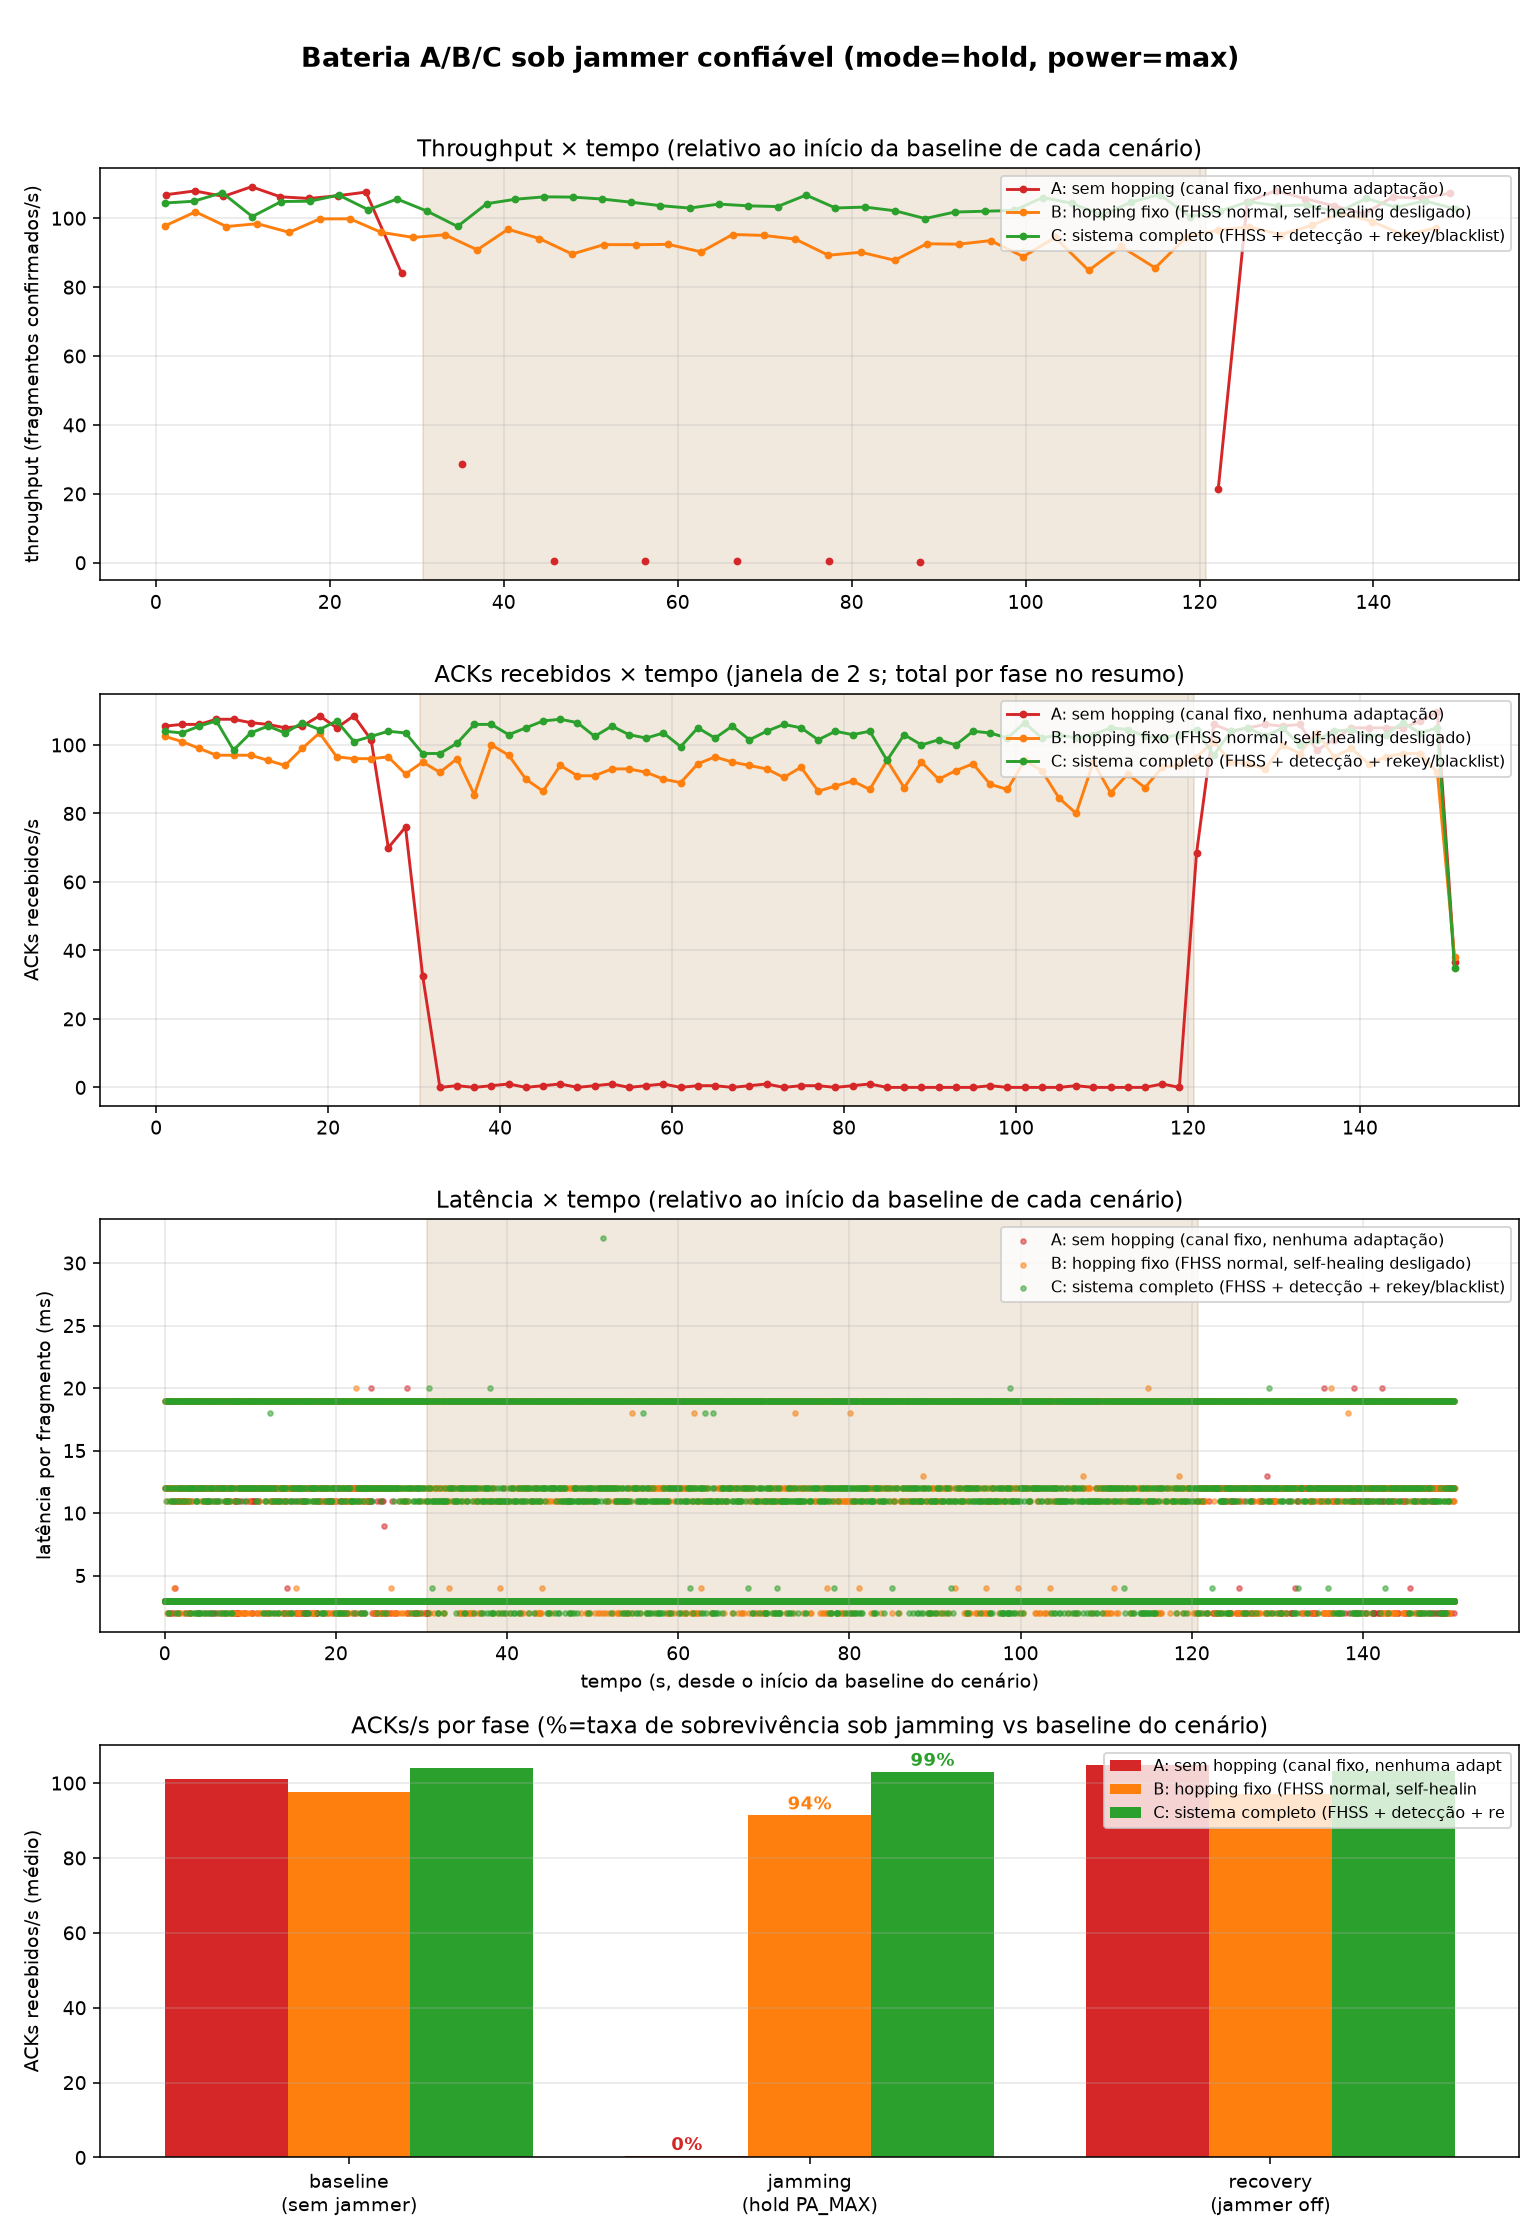
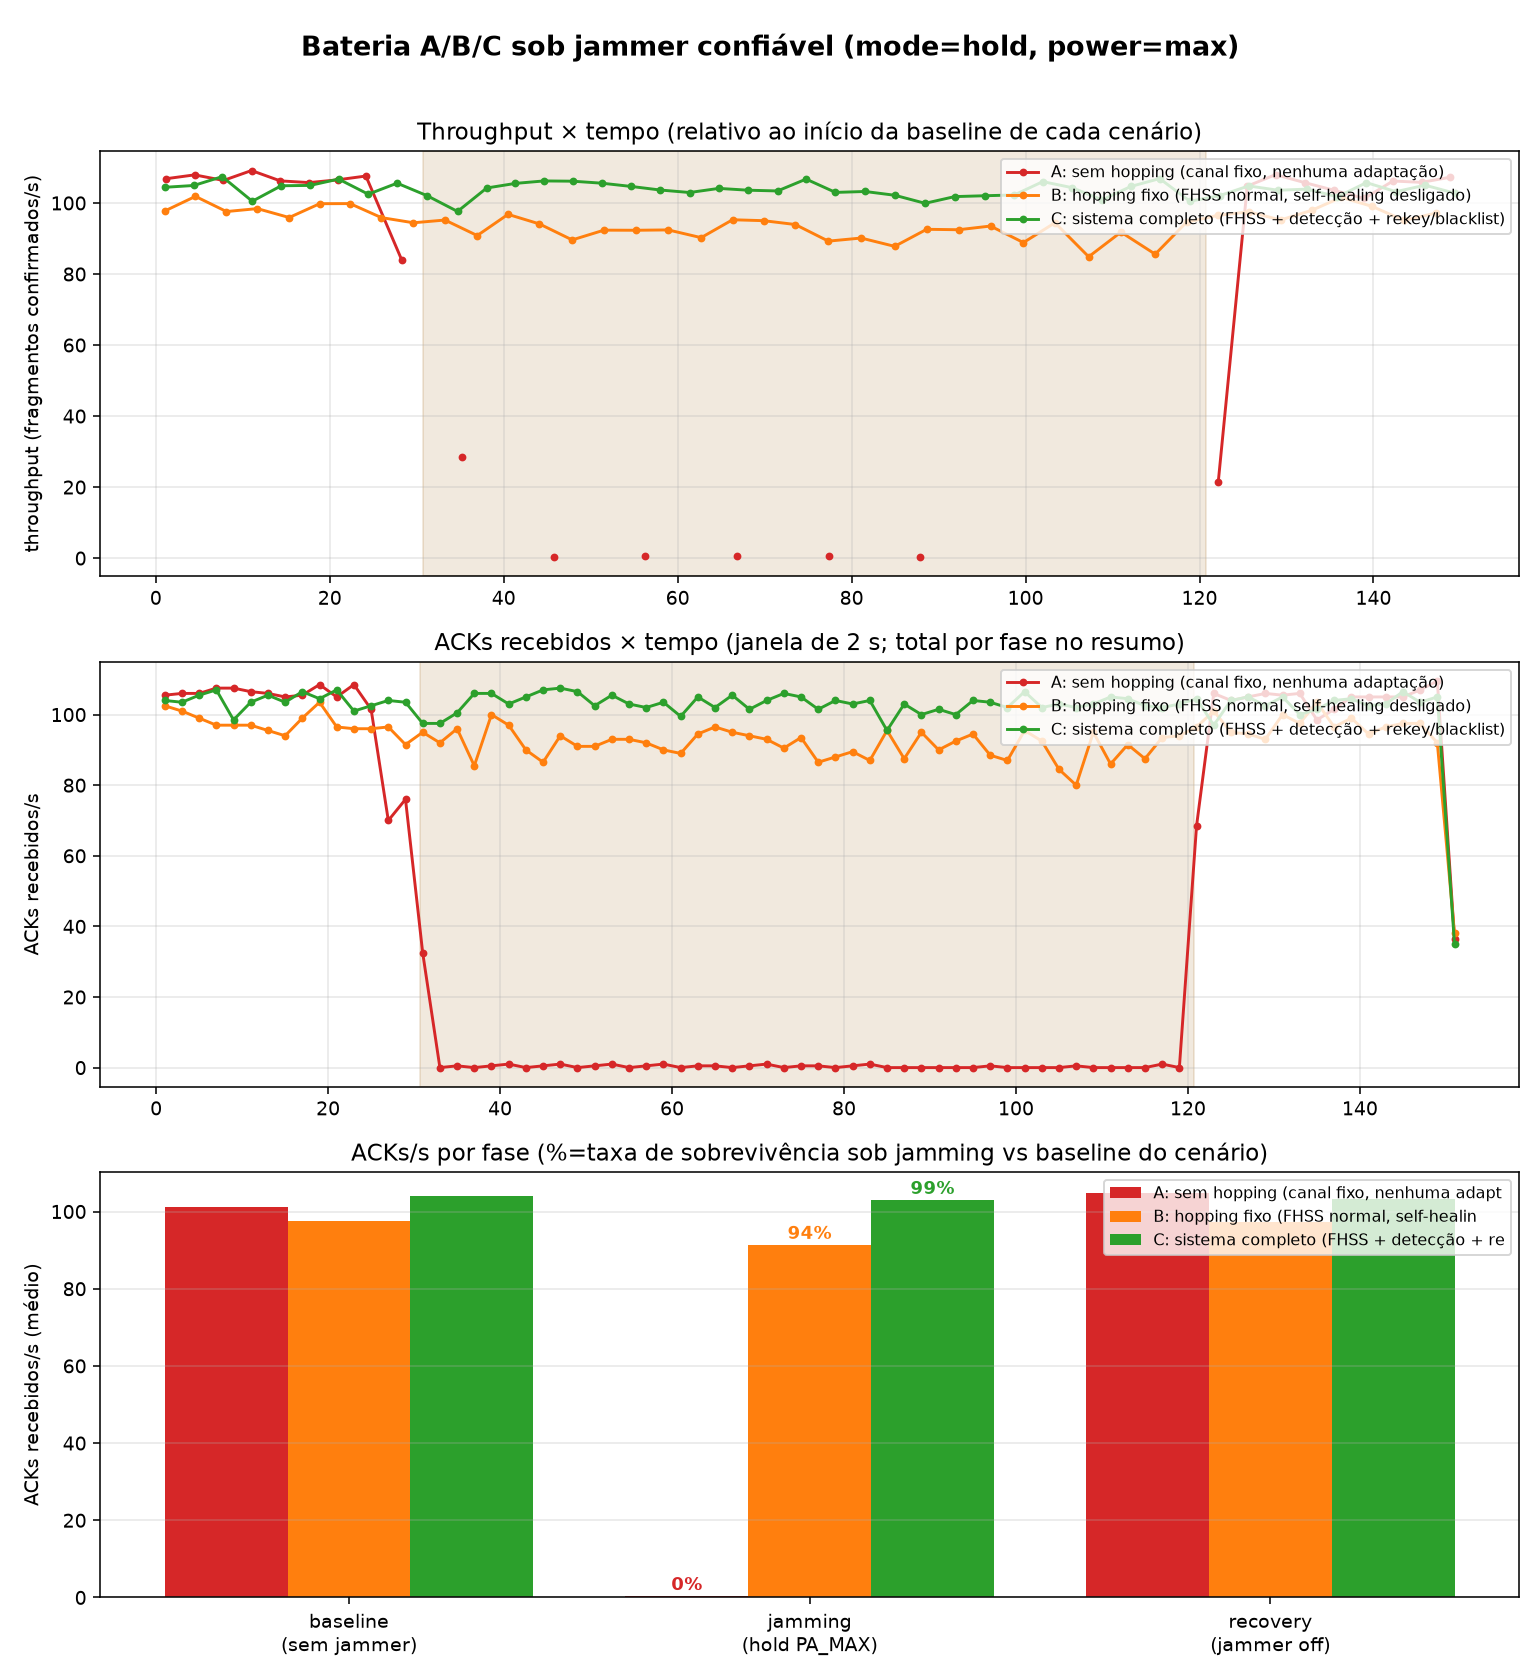
docs/charts: comparativo entre modos de atacante + remove painel de latencia
- comparacao-modos-atacante.png (novo): sistema vs os 4 modos (sweep/targeted/
  adaptive/hold) na firmware final, A/B/C por modo, um radio PA_MAX. Sobrevivencia
  sob jamming: so o hold derruba o canal fixo (A=1%); os outros se diluem
  (A=85-90%); B e C sobrevivem a todos (91-102%). Baterias
  battery-20261021-181950/182429/182908/183346.
- plot_battery.py: remove o painel "Latencia x tempo" (scatter quantizado
  ilegivel). A latencia e estruturalmente constante (~3ms mediana/~19ms p95)
  em todos os cenarios/fases -- fica so no resumo em texto. Baterias de
  docs/charts regeradas com 3 paineis.
- README: adiciona o comparativo de modos e a ressalva sobre latencia.

diff --git a/tools/validation/plot_battery.py b/tools/validation/plot_battery.py
@@ -112,12 +112,13 @@ def main():
     labels = battery.get("scenario_labels", {})
     by_scenario = phases_by_scenario(battery)
 
-    fig, (ax_thr, ax_ack, ax_lat, ax_bar) = plt.subplots(4, 1, figsize=(11, 16), sharex=False)
+    fig, (ax_thr, ax_ack, ax_bar) = plt.subplots(3, 1, figsize=(11, 12), sharex=False)
     # jamming-mitigation-hardening: métricas por fase (baseline/jamming/
     # recovery) por cenário, para o painel de barras e a taxa de sobrevivência.
     per_phase_thr = {}  # scenario -> {phase: mean throughput (telemetria frags/s)}
     per_phase_acks = {}  # scenario -> {phase: total de ACKs recebidos}
     per_phase_ackrate = {}  # scenario -> {phase: ACKs/s (contagem direta, confiável)}
+    per_phase_lat = {}  # scenario -> {phase: [latências ms]}
 
     print("=" * 78)
     print(f"Bateria comparativa: {path}")
@@ -166,10 +167,6 @@ def main():
                 ys.append(y)
                 prev_t = t
             ax_thr.plot(xs, ys, marker="o", markersize=3, color=color, label=label)
-        if lat:
-            xs, ys = zip(*sorted(lat))
-            ax_lat.scatter(xs, ys, s=6, color=color, alpha=0.5, label=label)
-
         # ACKs/s ao longo do tempo: bina os eventos de ack em janelas de 2s.
         if acks:
             BIN = 2.0
@@ -187,7 +184,6 @@ def main():
         if jam_start is not None and jam_end is not None:
             ax_thr.axvspan(jam_start - t_start, jam_end - t_start, color=color, alpha=0.05)
             ax_ack.axvspan(jam_start - t_start, jam_end - t_start, color=color, alpha=0.05)
-            ax_lat.axvspan(jam_start - t_start, jam_end - t_start, color=color, alpha=0.05)
 
             plr_during_jam = [v for ep, v in plr if jam_start <= ep <= jam_end]
             thr_during_jam = [v for t, v in thr if (jam_start - t_start) <= t <= (jam_end - t_start)]
@@ -207,6 +203,11 @@ def main():
             ph_acks[ph_name] = n
             dur = (we - ws)
             ph_ackrate[ph_name] = (n / dur) if dur and dur < 1e8 else 0.0
+        # amostras de latência (ms) por fase, para o painel de distribuição.
+        per_phase_lat[scenario] = {
+            ph_name: [v for (t, v) in lat if ws <= (t + t_start) < we]
+            for ph_name, (ws, we) in wins.items()
+        }
         per_phase_thr[scenario] = ph_means
         per_phase_acks[scenario] = ph_acks
         per_phase_ackrate[scenario] = ph_ackrate
@@ -221,11 +222,11 @@ def main():
     ax_ack.grid(alpha=0.3)
     ax_ack.legend(loc="upper right", fontsize=8)
 
-    ax_lat.set_ylabel("latência por fragmento (ms)")
-    ax_lat.set_xlabel("tempo (s, desde o início da baseline do cenário)")
-    ax_lat.set_title("Latência × tempo (relativo ao início da baseline de cada cenário)")
-    ax_lat.grid(alpha=0.3)
-    ax_lat.legend(loc="upper right", fontsize=8)
+    # Painel de latência removido: no sistema por slots a latência fica
+    # estruturalmente constante (~3 ms mediana / ~19 ms p95) em todos os
+    # cenários e fases, inclusive sob jamming -- não diferencia nada
+    # visualmente. O fato fica registrado no resumo em texto (lat jam ms).
+    import numpy as np  # usado pelo painel de barras abaixo
 
     # -------- Painel de barras: ACKs/s médio por fase, por cenário -------
     # Usa a TAXA DE ACKS (contagem direta), não a telemetria de throughput: sob
@@ -235,7 +236,6 @@ def main():
     # nas duas variantes.
     phase_order = ["baseline", "jamming", "recovery"]
     phase_labels = {"baseline": "baseline\n(sem jammer)", "jamming": "jamming\n(hold PA_MAX)", "recovery": "recovery\n(jammer off)"}
-    import numpy as np
     x = np.arange(len(phase_order))
     nscen = max(len(scenarios), 1)
     width = 0.8 / nscen

diff --git a/docs/charts/README.md b/docs/charts/README.md
@@ -17,6 +17,7 @@ rádio em `hold ch10 PA_MAX` (o atacante confiável desta bancada).
 | Arquivo | O que demonstra |
 |---|---|
 | `bateria-abc-sistema-final.png` | **Resultado final do sistema** (2026-10-21, firmware com as 3 correções: servo de fase, watchdog de pareamento, qualidade por canal). A/B/C sob `hold ch10 PA_MAX`. Sobrevivência sob jamming: **A=0%, B=94%, C=99%**; C aplica blacklist nos dois lados, 0 `loss_of_sync` em B/C, A cai e re-pareia sozinho. |
+| `comparacao-modos-atacante.png` | **Sistema vs os 4 modos de atacante** (mesma campanha, firmware final, A/B/C por modo, um rádio PA_MAX). Sobrevivência sob jamming: só o `hold` derruba o canal fixo (A=1%); `sweep`/`targeted`/`adaptive` se diluem (A=85-90%). Hopping (B) e sistema completo (C) sobrevivem a **todos** os modos (91-102%). Justifica o `hold` como o atacante de referência. |
 | `comparacao-survival-event-vs-time.png` | **Impacto do redesenho do transporte** (event-driven → time-slotted, 2026-09-26, mesmo teste, mesma sessão). Sobrevivência: B **9%→45%**, C **1%→78%**; o event-driven dessincroniza sob jamming e o C colapsa, o time-slotted se mantém. É a justificativa da escolha de arquitetura. |
 | `estabilidade-deriva-antes-depois.png` | **Confiabilidade do enlace sem jammer** — correção da deriva de clock (`slot-phase-servo`). Antes: throughput decai com o tempo (serrote, re-pareamento mascarava); depois: estável ~100 fragmentos/s por 15 min. |
 
@@ -43,6 +44,11 @@ rádio em `hold ch10 PA_MAX` (o atacante confiável desta bancada).
   maior parte dessa folga. A diferença C≫B apareceria contra um atacante
   multi-canal ou que persegue a sequência de salto — fora do alcance desta
   bancada de um rádio.
+- **Latência não é um eixo de avaliação neste sistema.** No transporte por
+  slots a latência por fragmento fica estruturalmente constante (~3 ms
+  mediana / ~19 ms p95) em todos os cenários e fases, inclusive sob jamming.
+  Por isso o painel de latência foi removido das figuras de bateria (era um
+  scatter ilegível de valores quantizados); o fato fica só no texto.
 - **Quem banе o canal é a evidência de ack do próprio mestre (reativa).** A
   detecção por ocupação do analisador (`channel-quality-sensing`) é um sinal
   complementar: ela conserta o alerta antes travado pelo Wi-Fi e dá
